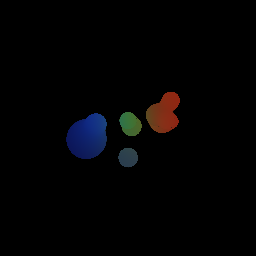
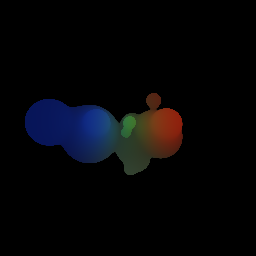
feat: 初期はランダムサンプリングを増やす

Changed region(s): [[0.0938, 0.3438, 0.7188, 0.6875]]

diff --git a/src/bin/train.rs b/src/bin/train.rs
@@ -3,7 +3,6 @@ use burn::backend::{Autodiff, Wgpu};
 use burn::optim::decay::WeightDecayConfig;
 use burn::optim::{AdamConfig, GradientsParams, Optimizer};
 use burn::prelude::*;
-use burn::tensor::Distribution;
 use burn::tensor::activation;
 
 use rand::RngExt;
@@ -19,8 +18,8 @@ fn main() {
     // --------------------------------------------------------
     // 設定: 球を100個に増やす
     // --------------------------------------------------------
-    const N: usize = 10;
-    const BATCH_SIZE: usize = 4096; // VRAMに合わせて調整 (2048~8192くらい)
+    const N: usize = 20;
+    const BATCH_SIZE: usize = 8192; // VRAMに合わせて調整 (2048~8192くらい)
     const ITERATIONS: usize = 2000; // バッチ学習なので回数を増やす
 
     let width = 256;
@@ -147,23 +146,32 @@ fn main() {
     let lr = 0.05; // 球が多いので学習率は少し調整が必要かも
 
     for i in 1..=ITERATIONS {
+        let progress = i as f32 / ITERATIONS as f32;
+
         // --- 4. バッチサンプリング ---
         let mut rng = rand::rng();
 
-        // バッチを「全体ランダム」と「前景ブースト」で半分ずつに分ける
-        let uniform_batch_size = BATCH_SIZE / 2;
-        let fg_boost_batch_size = BATCH_SIZE - uniform_batch_size;
+        // --- サンプリング比率のアニーリング ---
+        let uniform_ratio = 0.8 - (0.6 * progress); // 0.8 -> 0.2 に減少
+
+        let mut uniform_batch_size = (BATCH_SIZE as f32 * uniform_ratio) as usize;
+        let mut fg_boost_batch_size = BATCH_SIZE - uniform_batch_size;
+
+        // 前景ピクセル数が少ない場合のキャップ処理
+        if !fg_indices.is_empty() && fg_indices.len() < fg_boost_batch_size {
+            fg_boost_batch_size = fg_indices.len();
+            uniform_batch_size = BATCH_SIZE - fg_boost_batch_size;
+        }
 
         let mut batch_indices = Vec::with_capacity(BATCH_SIZE);
 
-        // 1. 全体からのランダム抽出 (背景と前景が「実際の画像の比率」で自然に選ばれる)
+        // 1. 全体からの抽出
         for _ in 0..uniform_batch_size {
-            // 0 から num_total_pixels - 1 までの一様乱数
             batch_indices.push(rng.random_range(0..num_total_pixels as i32));
         }
 
-        // 2. 前景からの抽出 (物体の形を早く作るためのブースト)
-        if !fg_indices.is_empty() {
+        // 2. 前景からの抽出
+        if !fg_indices.is_empty() && fg_boost_batch_size > 0 {
             for _ in 0..fg_boost_batch_size {
                 let idx = rng.random_range(0..fg_indices.len());
                 batch_indices.push(fg_indices[idx]);
@@ -179,7 +187,6 @@ fn main() {
         let batch_target = train_targets.clone().select(0, indices).detach();
 
         // --- アニーリングの計算 ---
-        let progress = i as f32 / ITERATIONS as f32;
         let smooth_k = 5.0 + (32.0 - 5.0) * progress;
 
         // --- Forward & Backward ---
@@ -230,7 +237,7 @@ fn main() {
         // 球の表面が一番外側に張り出す距離 (中心距離 + 半径)
         let max_reach = dist_from_origin + radii;
 
-        // 境界線 1.5 を超えているかどうかのマスク
+        // 境界線 1.2 を超えているかどうかのマスク
         let out_of_bounds_mask = max_reach.clone().greater_elem(1.2);
         let excess_dist = max_reach.clone() - 1.1;
         let penalty_values = excess_dist.powf_scalar(2.0);
